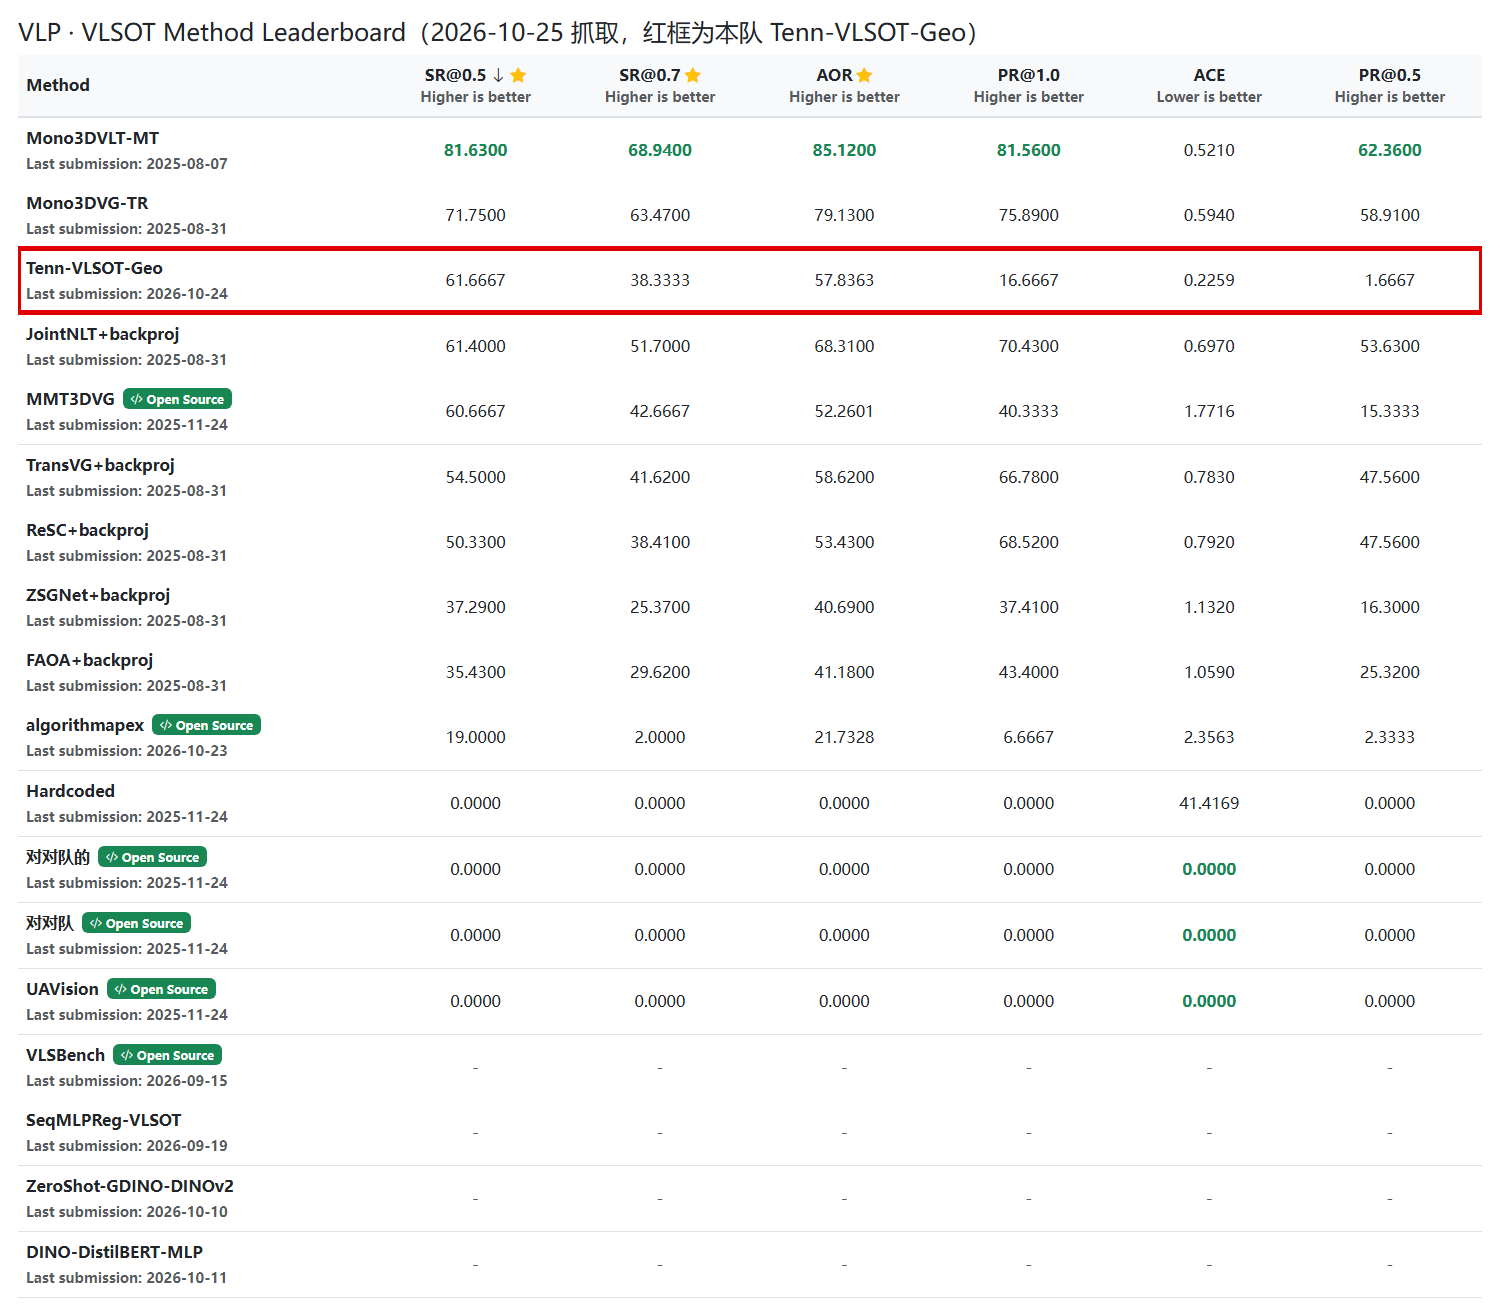
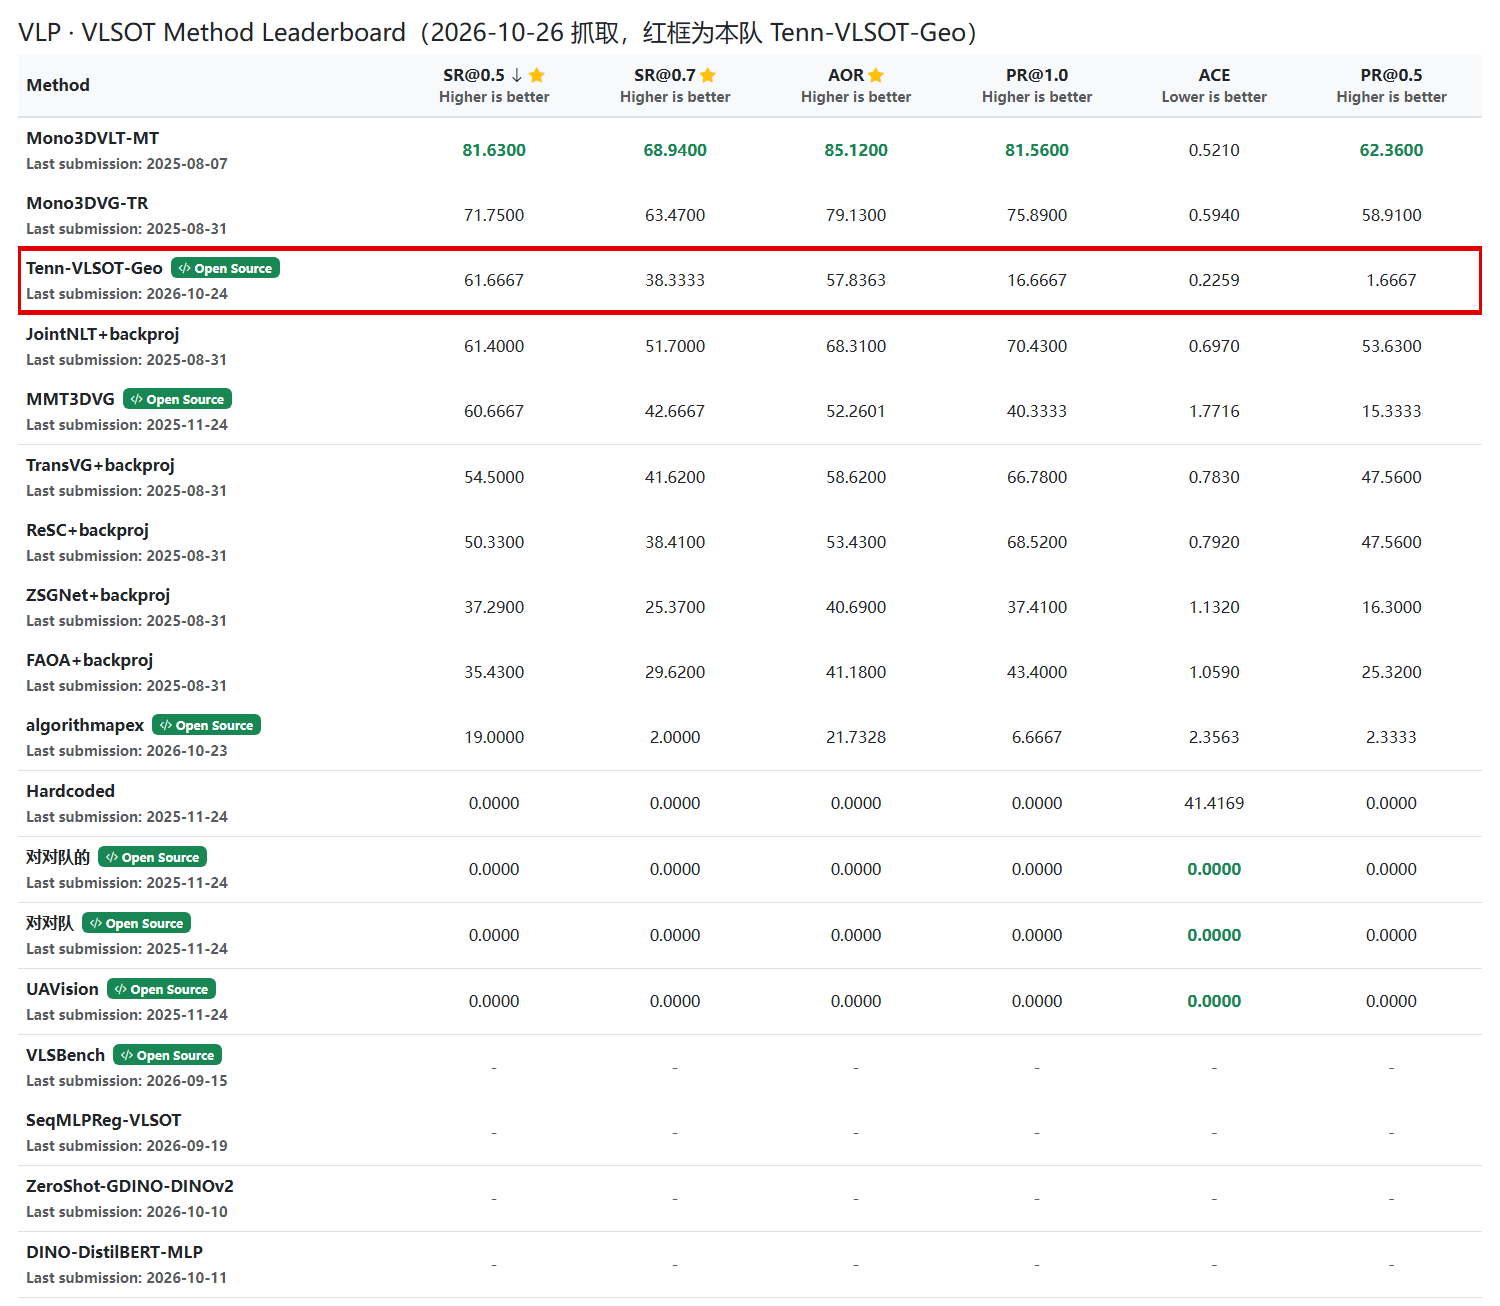
Refresh leaderboard figure and dates (2026-10-26)

diff --git a/docs/build_ppt.py b/docs/build_ppt.py
@@ -13,7 +13,7 @@ from pptx.enum.text import MSO_ANCHOR, MSO_AUTO_SIZE, PP_ALIGN
 from pptx.oxml.ns import qn
 from pptx.util import Inches, Pt
 
-from report_data import ABLATION, CEILING, METHOD, PLATFORM, TEAM, WEIGHTS
+from report_data import ABLATION, CEILING, LB_DATE, METHOD, PLATFORM, TEAM, WEIGHTS
 
 HERE = os.path.dirname(os.path.abspath(__file__))
 FIG = os.path.join(HERE, "figs")
@@ -133,7 +133,7 @@ notes(s, "任务：输入 30 帧单目图像、英文目标描述与相机标定
          "数据：TRAIN 227 段 / TEST 10 段，每段 30 帧。"
          f"代码 {METHOD['repo']}；权重 {WEIGHTS['url']}（提取码 {WEIGHTS['code']}）。"
          "官方数据包不含标定，我们使用源数据集 V2X-Seq-SPD 路侧端公开的标定文件，只读内参与外参，不读其中任何标注。"
-         "平台成绩取自方法页 http://vlp.chd.edu.cn/tasks/method/301 的 2026-10-24 16:30 提交；排名取自 2026-10-25 抓取的排行榜，"
+         f"平台成绩取自方法页 http://vlp.chd.edu.cn/tasks/method/301 的 2026-10-24 16:30 提交；排名取自 {LB_DATE[0]} 抓取的排行榜，"
          "按 SR@0.5 排序第 3（18 个方法中 14 个有成绩）；ACE 在 SR@0.5 大于 0 的 10 个方法中最低。"
          "交叉验证为 227 段 TRAIN 按目标 (sequence, track) 分组的 5 折，指标与平台一致（真实 3D IoU、中心欧氏误差）。")
 

diff --git a/docs/build_docx.py b/docs/build_docx.py
@@ -12,7 +12,7 @@ from docx.oxml import OxmlElement
 from docx.oxml.ns import qn
 from docx.shared import Cm, Pt
 
-from report_data import ABLATION, CEILING, FACTS, LEADERBOARD, METHOD, PLATFORM, REJECTED, TEAM, WEIGHTS
+from report_data import ABLATION, CEILING, FACTS, LB_DATE, LEADERBOARD, METHOD, PLATFORM, REJECTED, TEAM, WEIGHTS
 
 HERE = os.path.dirname(os.path.abspath(__file__))
 FIG = os.path.join(HERE, "figs")
@@ -311,7 +311,7 @@ def main():
     w.p([("VLP 平台用户名：", True), (priv["vlp_user"], False), ("；方法名称：", True),
          (f"{METHOD['short']}（{METHOD['long']}），方法页 {METHOD['url']}。以下成绩为 2026 年 10 月 24 日 16:30"
           "（平台显示时间）提交的 v12f 版本。", False)])
-    w.fig("fig_leaderboard.png", 14.6, "VLP 平台 VLSOT 赛道排行榜（2026 年 10 月 25 日截图，按 SR@0.5 排序，红框为本队）")
+    w.fig("fig_leaderboard.png", 14.6, f"VLP 平台 VLSOT 赛道排行榜（{LB_DATE[1]}截图，按 SR@0.5 排序，红框为本队）")
     rows = [["", *names[:4], "ACE/m", "PR@0.5"],
             ["本方法（v12f）", *[n(ours[2 + k], 4 if names[k] == "ACE" else 2) for k in range(6)]],
             [f"排名（SR@0.5>0 的 {len(scored)} 个方法）", *[str(x) for x in rank]],

diff --git a/docs/report_data.py b/docs/report_data.py
@@ -7,8 +7,9 @@ TEAM = {
     "school": "数据科学与人工智能研究院",
     "members": "滕恒基、梁天宇、苗富敬、刘帅、安子茜",
     "advisor": "孙士杰",
-    "date": "2026 年 10 月 25 日",
+    "date": "2026 年 10 月 26 日",
 }
+LB_DATE = ("2026-10-26", "2026 年 10 月 26 日")  # 排行榜截图的抓取日期（数字与 10-25 相同，本队行多了 Open Source 标记）
 METHOD = {
     "short": "Tenn-VLSOT-Geo",
     "long": "Wangyuan Language-Guided Geometric 3D Tracking (Text Range + Roadside Back-projection)",
@@ -45,7 +46,7 @@ ABLATION = [
     ("+ boxfit（全部帧）", 87.78, 68.66, 70.35, 0.496, 36.98, 12.54),
     ("+ 二次距离插值、高度先验放宽（v12f）", 88.41, 69.16, 70.57, 0.498, 38.63, 12.69),
 ]
-# 排行榜（2026-10-25 抓取 http://vlp.chd.edu.cn/tasks/1；按 SR@0.5 排序，18 个方法中 14 个有成绩）
+# 排行榜（2026-10-25、10-26 两次抓取 http://vlp.chd.edu.cn/tasks/1，数字相同；按 SR@0.5 排序，18 个方法中 14 个有成绩）
 LEADERBOARD_RANK = {"SR@0.5": "3 / 14", "ACE": "SR@0.5>0 的 10 个方法中最低"}
 # (方法, 方法号, SR@0.5, SR@0.7, AOR, PR@1.0, ACE, PR@0.5, 最后提交)；另有 4 个方法无成绩（193、216、240、241）
 LEADERBOARD = [

diff --git a/README.md b/README.md
@@ -15,7 +15,7 @@
 | VLP 平台测试集（v12f） | 61.6667 | 38.3333 | 57.8363 | 16.6667 | 0.2259 | 1.6667 |
 | TRAIN 5 折交叉验证（227 段，按目标分组） | 88.41 | 69.16 | 70.57 | 38.63 | 0.498 | 12.69 |
 
-2026-10-25 的排行榜上，本方法 SR@0.5 排第 3（14 个有成绩的方法），ACE 在 SR@0.5 > 0 的 10 个方法中最低。
+2026-10-26 的排行榜上，本方法 SR@0.5 排第 3（14 个有成绩的方法），ACE 在 SR@0.5 > 0 的 10 个方法中最低。
 交叉验证的 PR@1.0 / PR@0.5 按中心误差 < 0.1 m / < 0.05 m 统计，与平台对本方法给出的数值口径一致。
 
 ## 方法概述
